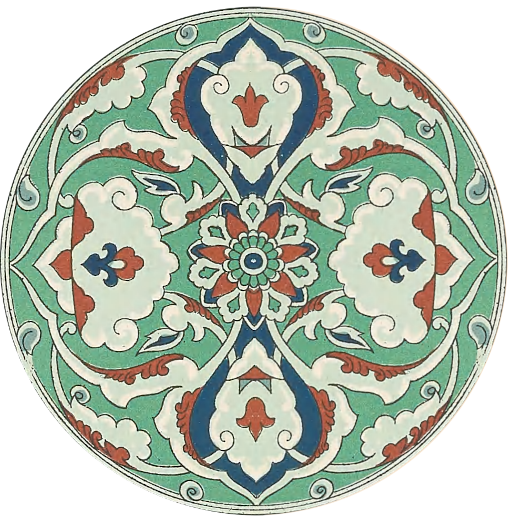
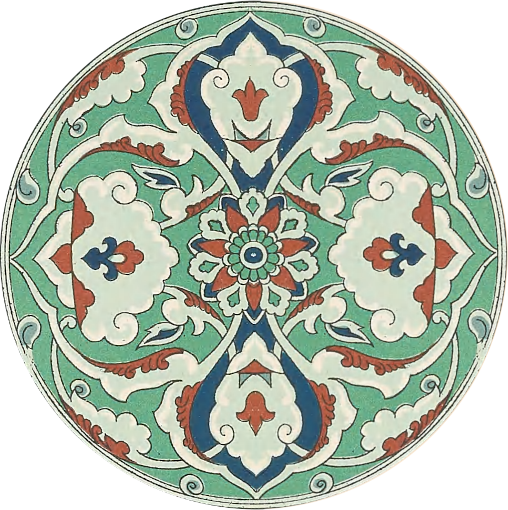
c

diff --git a/style.css b/style.css
@@ -24,8 +24,7 @@ body {
   background-repeat: no-repeat;
   background-size: 100%;
   background-position: center 15%;
-  overflow: hidden;  
-  translate: 0 -7%;
+  overflow: hidden; 
 }
 .base-image {
   width: 100%;
@@ -44,7 +43,7 @@ body {
 }
 
 #s002 {      
-  left: 86.24%;  top: 23.3%;  width: 26.6%;
+  left: 86.24%;  top: 23.42%;  width: 26.3%;
   animation: spin 120s linear infinite reverse;
 }
 #s004 {    
@@ -57,7 +56,7 @@ body {
 }
 #s005-001 {    
   left: 26.2%;  top: 40.03%;  width: 25.5%;
-  animation: spin 240s linear infinite;
+  transition: rotate 90ms;
 }
 
 #s006-000 {    
@@ -65,7 +64,7 @@ body {
 }
 #s006-001 {      
   left: 73.9%;  top: 39.8%;  width: 25.5%;
-  animation: spin 240s linear infinite reverse;
+  transition: rotate 90ms;
 }
 
 #s007-000 {  
@@ -73,7 +72,7 @@ body {
 }
 #s007-001 {  
   left: 50%;  top: 48.8%;  width: 28%;
-  animation: spin 420s linear infinite reverse;
+  animation: spin 60s linear infinite reverse;
 }
 
 #borderleft {

diff --git a/script.js b/script.js
@@ -1,13 +1,9 @@
-console.log("abc");
+window.scroll(0, 300);
 
-//console.log("navigator.userAgent:");
-//console.log(navigator.userAgent);
-//console.log("navigator.appVersion:");
-//console.log(navigator.appVersion);
-//console.log("navigator.platform:");
-//console.log(navigator.platform);
-//console.log("navigator.language:");
-//console.log(navigator.language);
-
-console.log(history)
-  
+function scrollUpdate() {
+    const scrolled = document.documentElement.scrollTop / 30;
+    const rightring = document.getElementById("s006-001");
+    const leftring = document.getElementById("s005-001");
+    rightring.style.rotate = scrolled + "deg";
+    leftring.style.rotate = "-" + scrolled + "deg";
+}

diff --git a/index.html b/index.html
@@ -6,7 +6,7 @@
   <link rel="stylesheet" href="./style.css">
   <meta name="viewport" content="width=device-width">
 </head>
-<body>
+<body onscroll="scrollUpdate()">
 	<div class="base">
     <!--<img src="mid_1080p/base.png" class="base-image"/>-->
 
